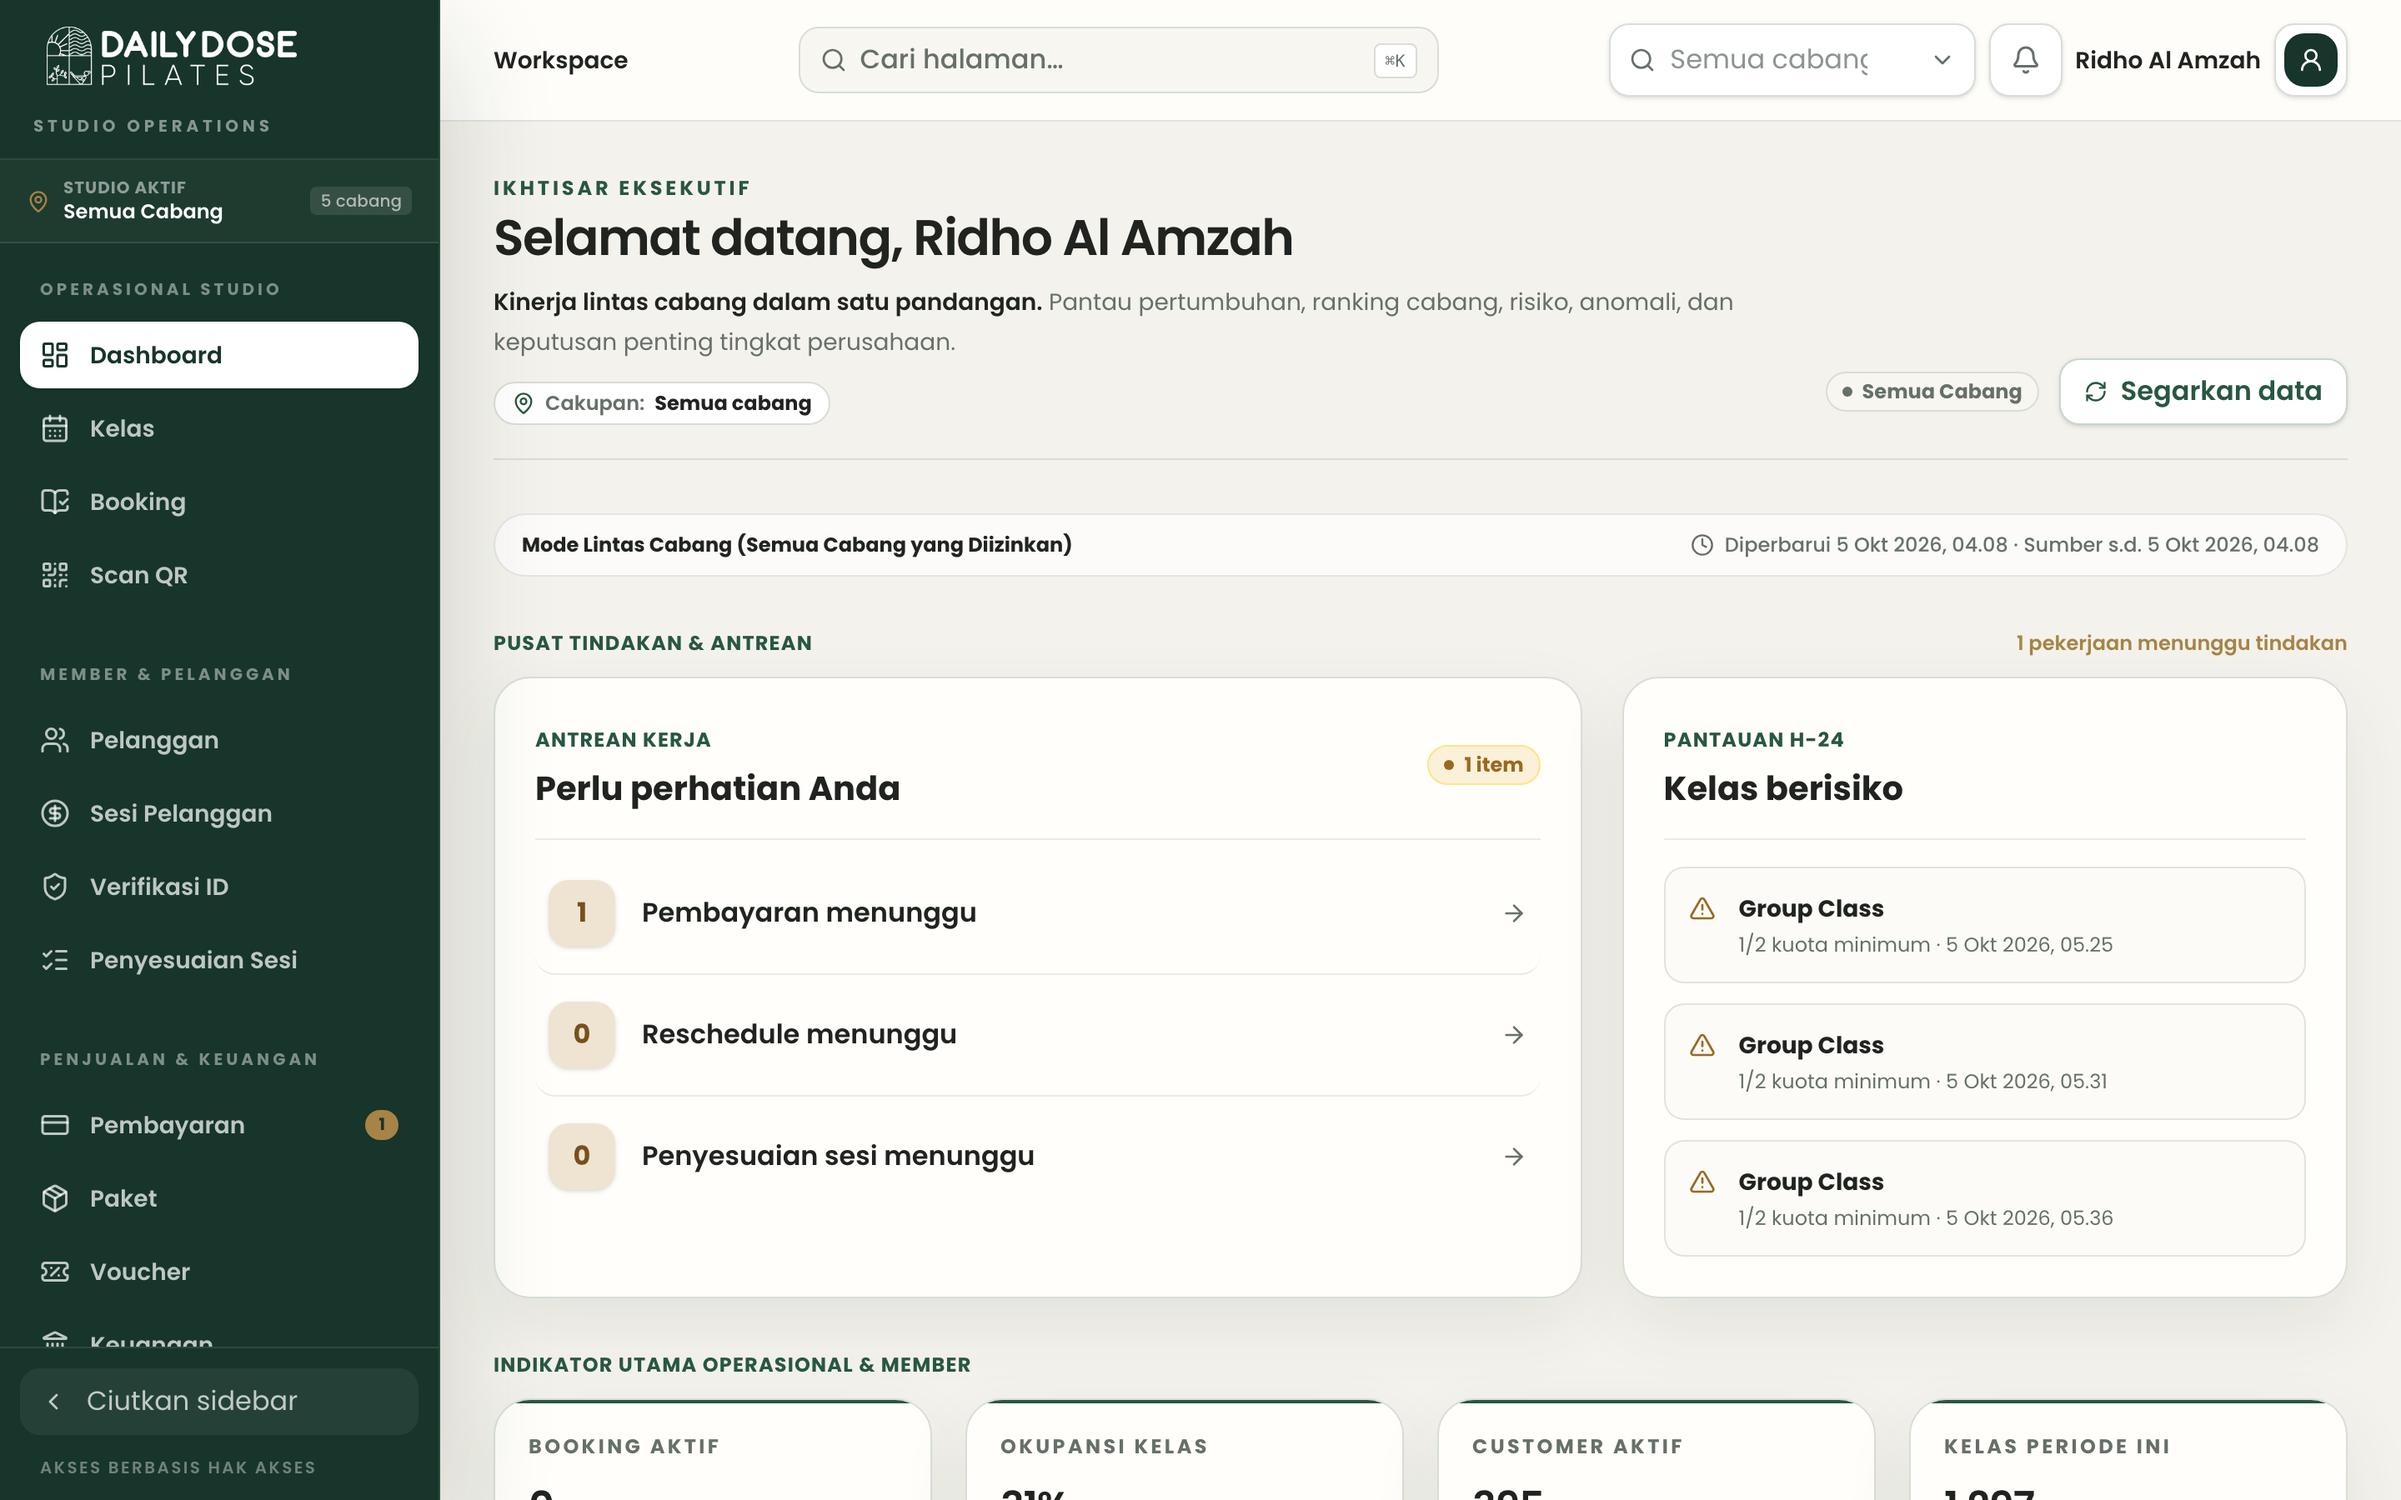
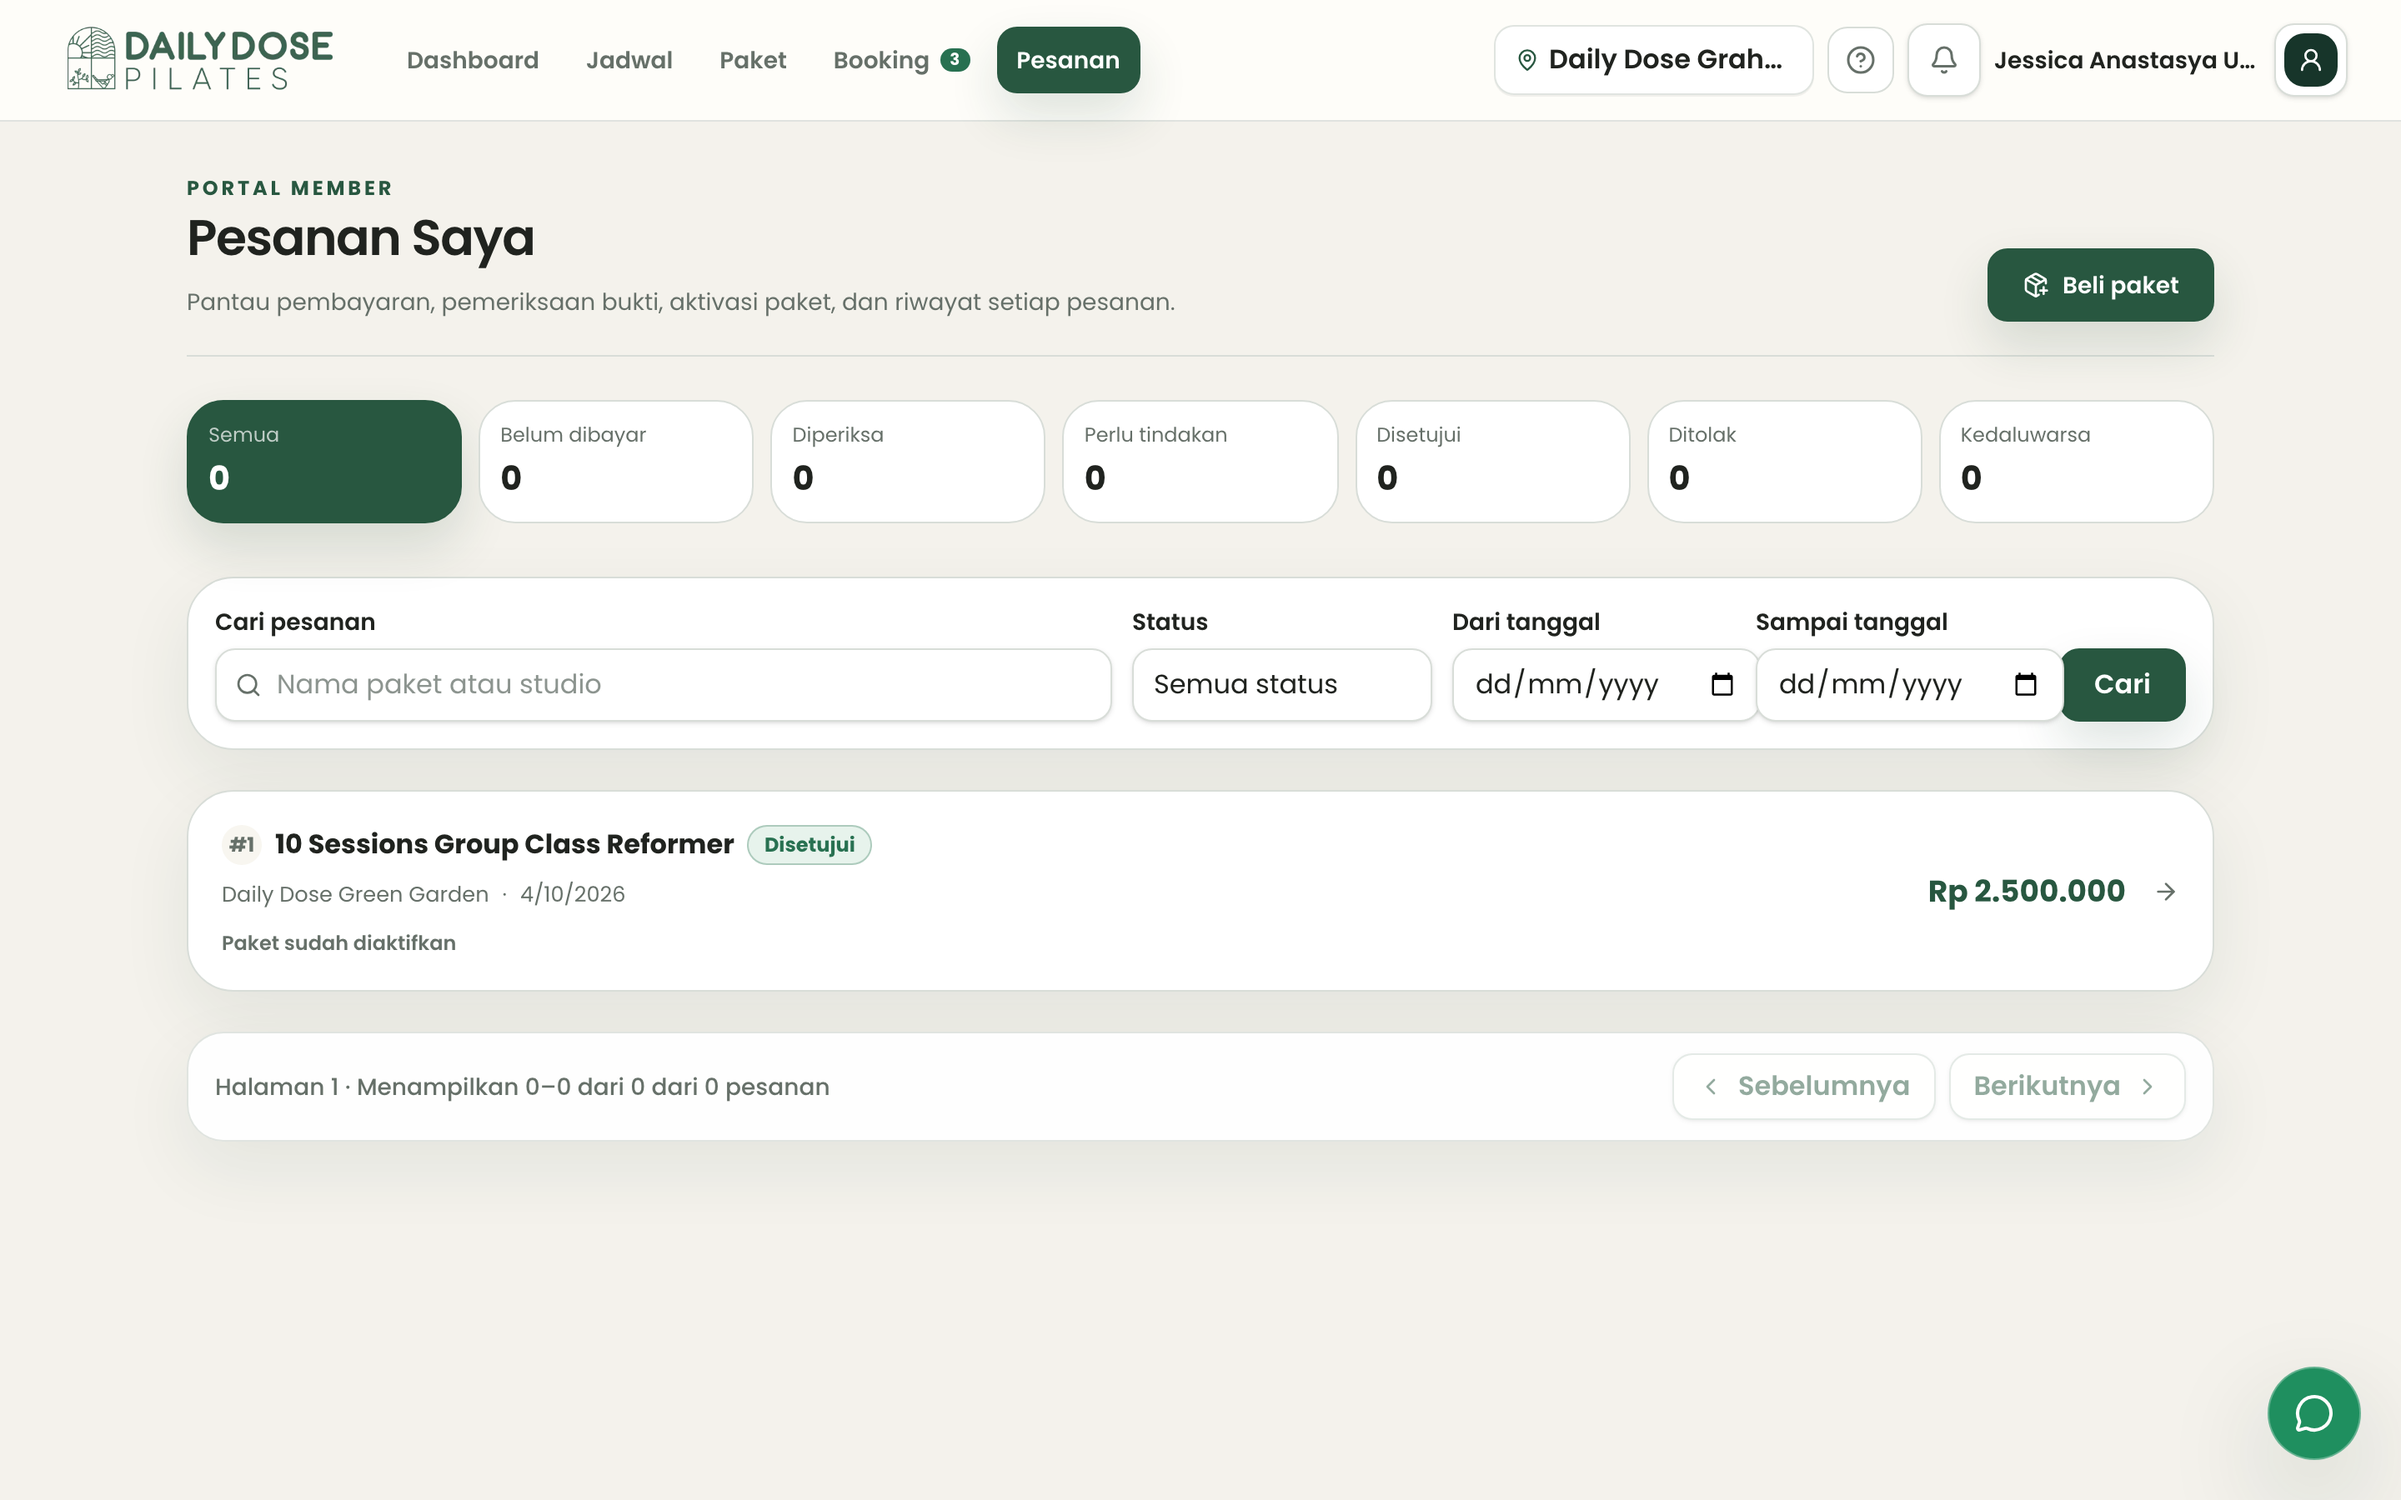
update

diff --git a/scratch/verify-checkin-real.ts b/scratch/verify-checkin-real.ts
@@ -1,0 +1,59 @@
+import { chromium } from '@playwright/test';
+import * as fs from 'fs';
+import * as path from 'path';
+
+const ARTIFACT_DIR = '/Users/lrmcorporation/.gemini/antigravity-ide/brain/71d2c1fd-f6c0-434b-85e6-7cb1af7e6cee';
+const BASE_URL = 'http://localhost:32120';
+const REAL_TOKEN = 'e4Y1qpM21GoFcabZiDyNat7fBAdPmlWW3K4Qe0nHNvM';
+
+function copyToArtifact(srcPath: string, filename: string) {
+  if (fs.existsSync(srcPath)) {
+    const dest = path.join(ARTIFACT_DIR, filename);
+    fs.copyFileSync(srcPath, dest);
+    console.log(`   [Artifact Saved] -> ${dest}`);
+  }
+}
+
+async function verifyRealCheckIn() {
+  console.log('=== VERIFYING REAL CHECK-IN VIEW ===\n');
+  const browser = await chromium.launch({ headless: true });
+
+  try {
+    const context = await browser.newContext({
+      viewport: { width: 1440, height: 900 },
+      deviceScaleFactor: 2,
+    });
+    const page = await context.newPage();
+
+    console.log(`Navigating to ${BASE_URL}/check-in/${REAL_TOKEN}...`);
+    await page.goto(`${BASE_URL}/check-in/${REAL_TOKEN}`, { waitUntil: 'networkidle', timeout: 60000 });
+    
+    // Wait for the ticket card to render
+    await page.waitForSelector('text=Nama Peserta', { timeout: 15000 });
+    await page.waitForSelector('text=Jessica Anastasya UAT', { timeout: 15000 });
+    console.log('   ✓ Ticket details successfully rendered on screen!');
+
+    // Check computed styles
+    const customerNameElem = page.locator('text=Jessica Anastasya UAT');
+    const color = await customerNameElem.evaluate((el) => window.getComputedStyle(el).color);
+    console.log('   Customer Name computed color:', color);
+
+    const cardElem = page.locator('div.bg-dd-surface-muted').first();
+    const bgColor = await cardElem.evaluate((el) => window.getComputedStyle(el).backgroundColor);
+    console.log('   Card computed backgroundColor:', bgColor);
+
+    const shot = 'scratch/verify_04_check_in.png';
+    await page.screenshot({ path: shot, fullPage: false });
+    copyToArtifact(shot, 'verify_04_check_in.png');
+    console.log('   ✓ New screenshot captured and saved as verify_04_check_in.png');
+
+    await context.close();
+  } finally {
+    await browser.close();
+  }
+}
+
+verifyRealCheckIn().catch((err) => {
+  console.error('Verification failed:', err);
+  process.exit(1);
+});

diff --git a/scratch/test-real-checkin-token.ts b/scratch/test-real-checkin-token.ts
@@ -1,0 +1,54 @@
+import { PrismaClient } from '@prisma/client';
+import { createHash, randomBytes } from 'node:crypto';
+
+const prisma = new PrismaClient();
+const sha256 = (v: string) => createHash('sha256').update(v).digest('hex');
+
+async function main() {
+  const booking = await prisma.pemesananKelas.findFirst({
+    where: { status: 'BOOKED' },
+    include: {
+      user: true,
+      classSlot: {
+        include: { classType: true, branch: true, instructor: true }
+      }
+    }
+  });
+
+  if (!booking) {
+    console.log('No BOOKED booking found');
+    return;
+  }
+
+  // Update slot time so it's currently active (OPEN for check-in)
+  const now = new Date();
+  const startAt = new Date(now.getTime() + 15 * 60_000); // starts in 15 mins
+  const endAt = new Date(now.getTime() + 75 * 60_000);   // ends in 75 mins
+  await prisma.slotKelas.update({
+    where: { id: booking.classSlotId },
+    data: { startAt, endAt, status: 'PUBLISHED' }
+  });
+
+  const rawToken = randomBytes(32).toString('base64url');
+  const tokenRecord = await prisma.checkInToken.create({
+    data: {
+      bookingId: booking.id,
+      token: sha256(rawToken),
+      expiresAt: endAt
+    }
+  });
+
+  console.log('Created valid token:');
+  console.log('Raw Token:', rawToken);
+  console.log('Booking:', booking.id, 'User:', booking.user.displayName, 'Class:', booking.classSlot.classType.name);
+
+  // Test API endpoint directly
+  const res = await fetch(`http://127.0.0.1:32121/api/v1/check-ins/customer-link-info?token=${encodeURIComponent(rawToken)}`);
+  console.log('API Status:', res.status);
+  const data = await res.json();
+  console.log('API Response:', JSON.stringify(data, null, 2));
+
+  return rawToken;
+}
+
+main().finally(() => prisma.$disconnect());
